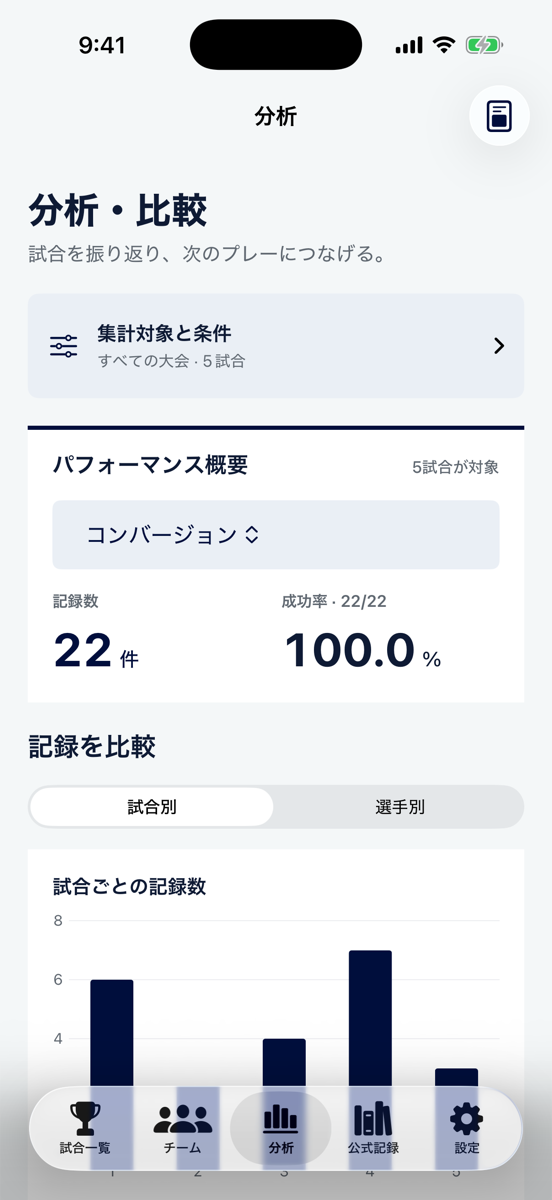
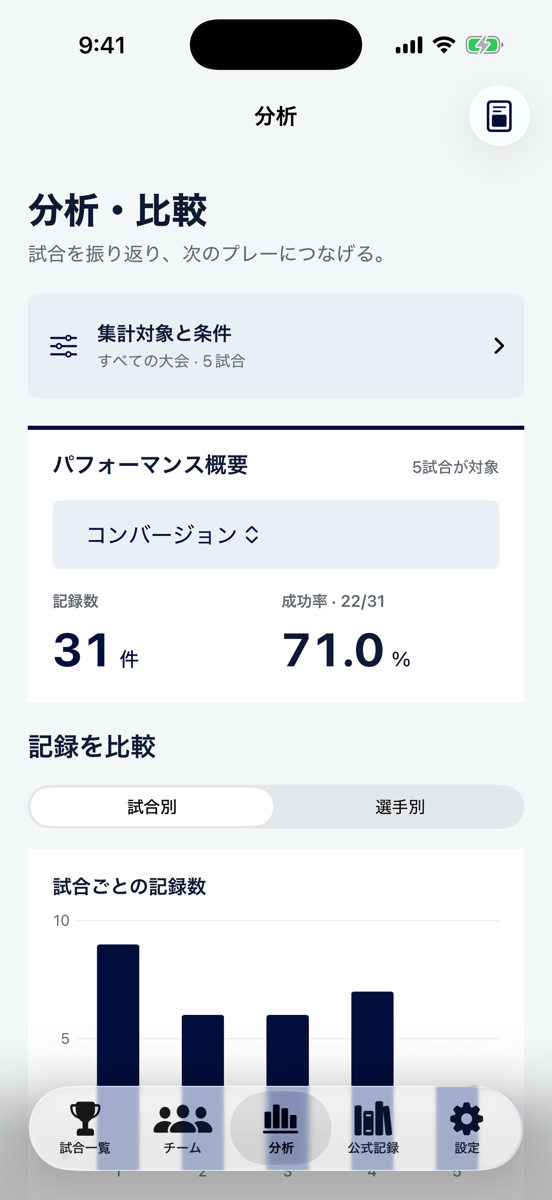
スクリーンショットを撮り直し(コンバージョンの失敗を含むサンプル)

diff --git a/Rugby AS/RugbyDesignPreview.swift b/Rugby AS/RugbyDesignPreview.swift
@@ -227,10 +227,10 @@ private enum RugbyDesignFixture {
                     context.insert(StatEvent(matchID: match.id, teamID: team.id,
                         playerID: players[(10 + index * 2) % players.count].id,
                         category: "try", outcome: "success", seconds: seconds, half: half))
-                    if index < conversions {
-                        context.insert(StatEvent(matchID: match.id, teamID: team.id, playerID: players[9].id,
-                            category: "conversion", outcome: "success", seconds: seconds + 65, half: half))
-                    }
+                    // 決まらなかった分は「失敗」として残す(成功率が100%にならないように)
+                    context.insert(StatEvent(matchID: match.id, teamID: team.id, playerID: players[9].id,
+                        category: "conversion", outcome: index < conversions ? "success" : "fail",
+                        seconds: seconds + 65, half: half))
                 }
                 for index in 0..<penalties {
                     context.insert(StatEvent(matchID: match.id, teamID: team.id, playerID: players[9].id,
